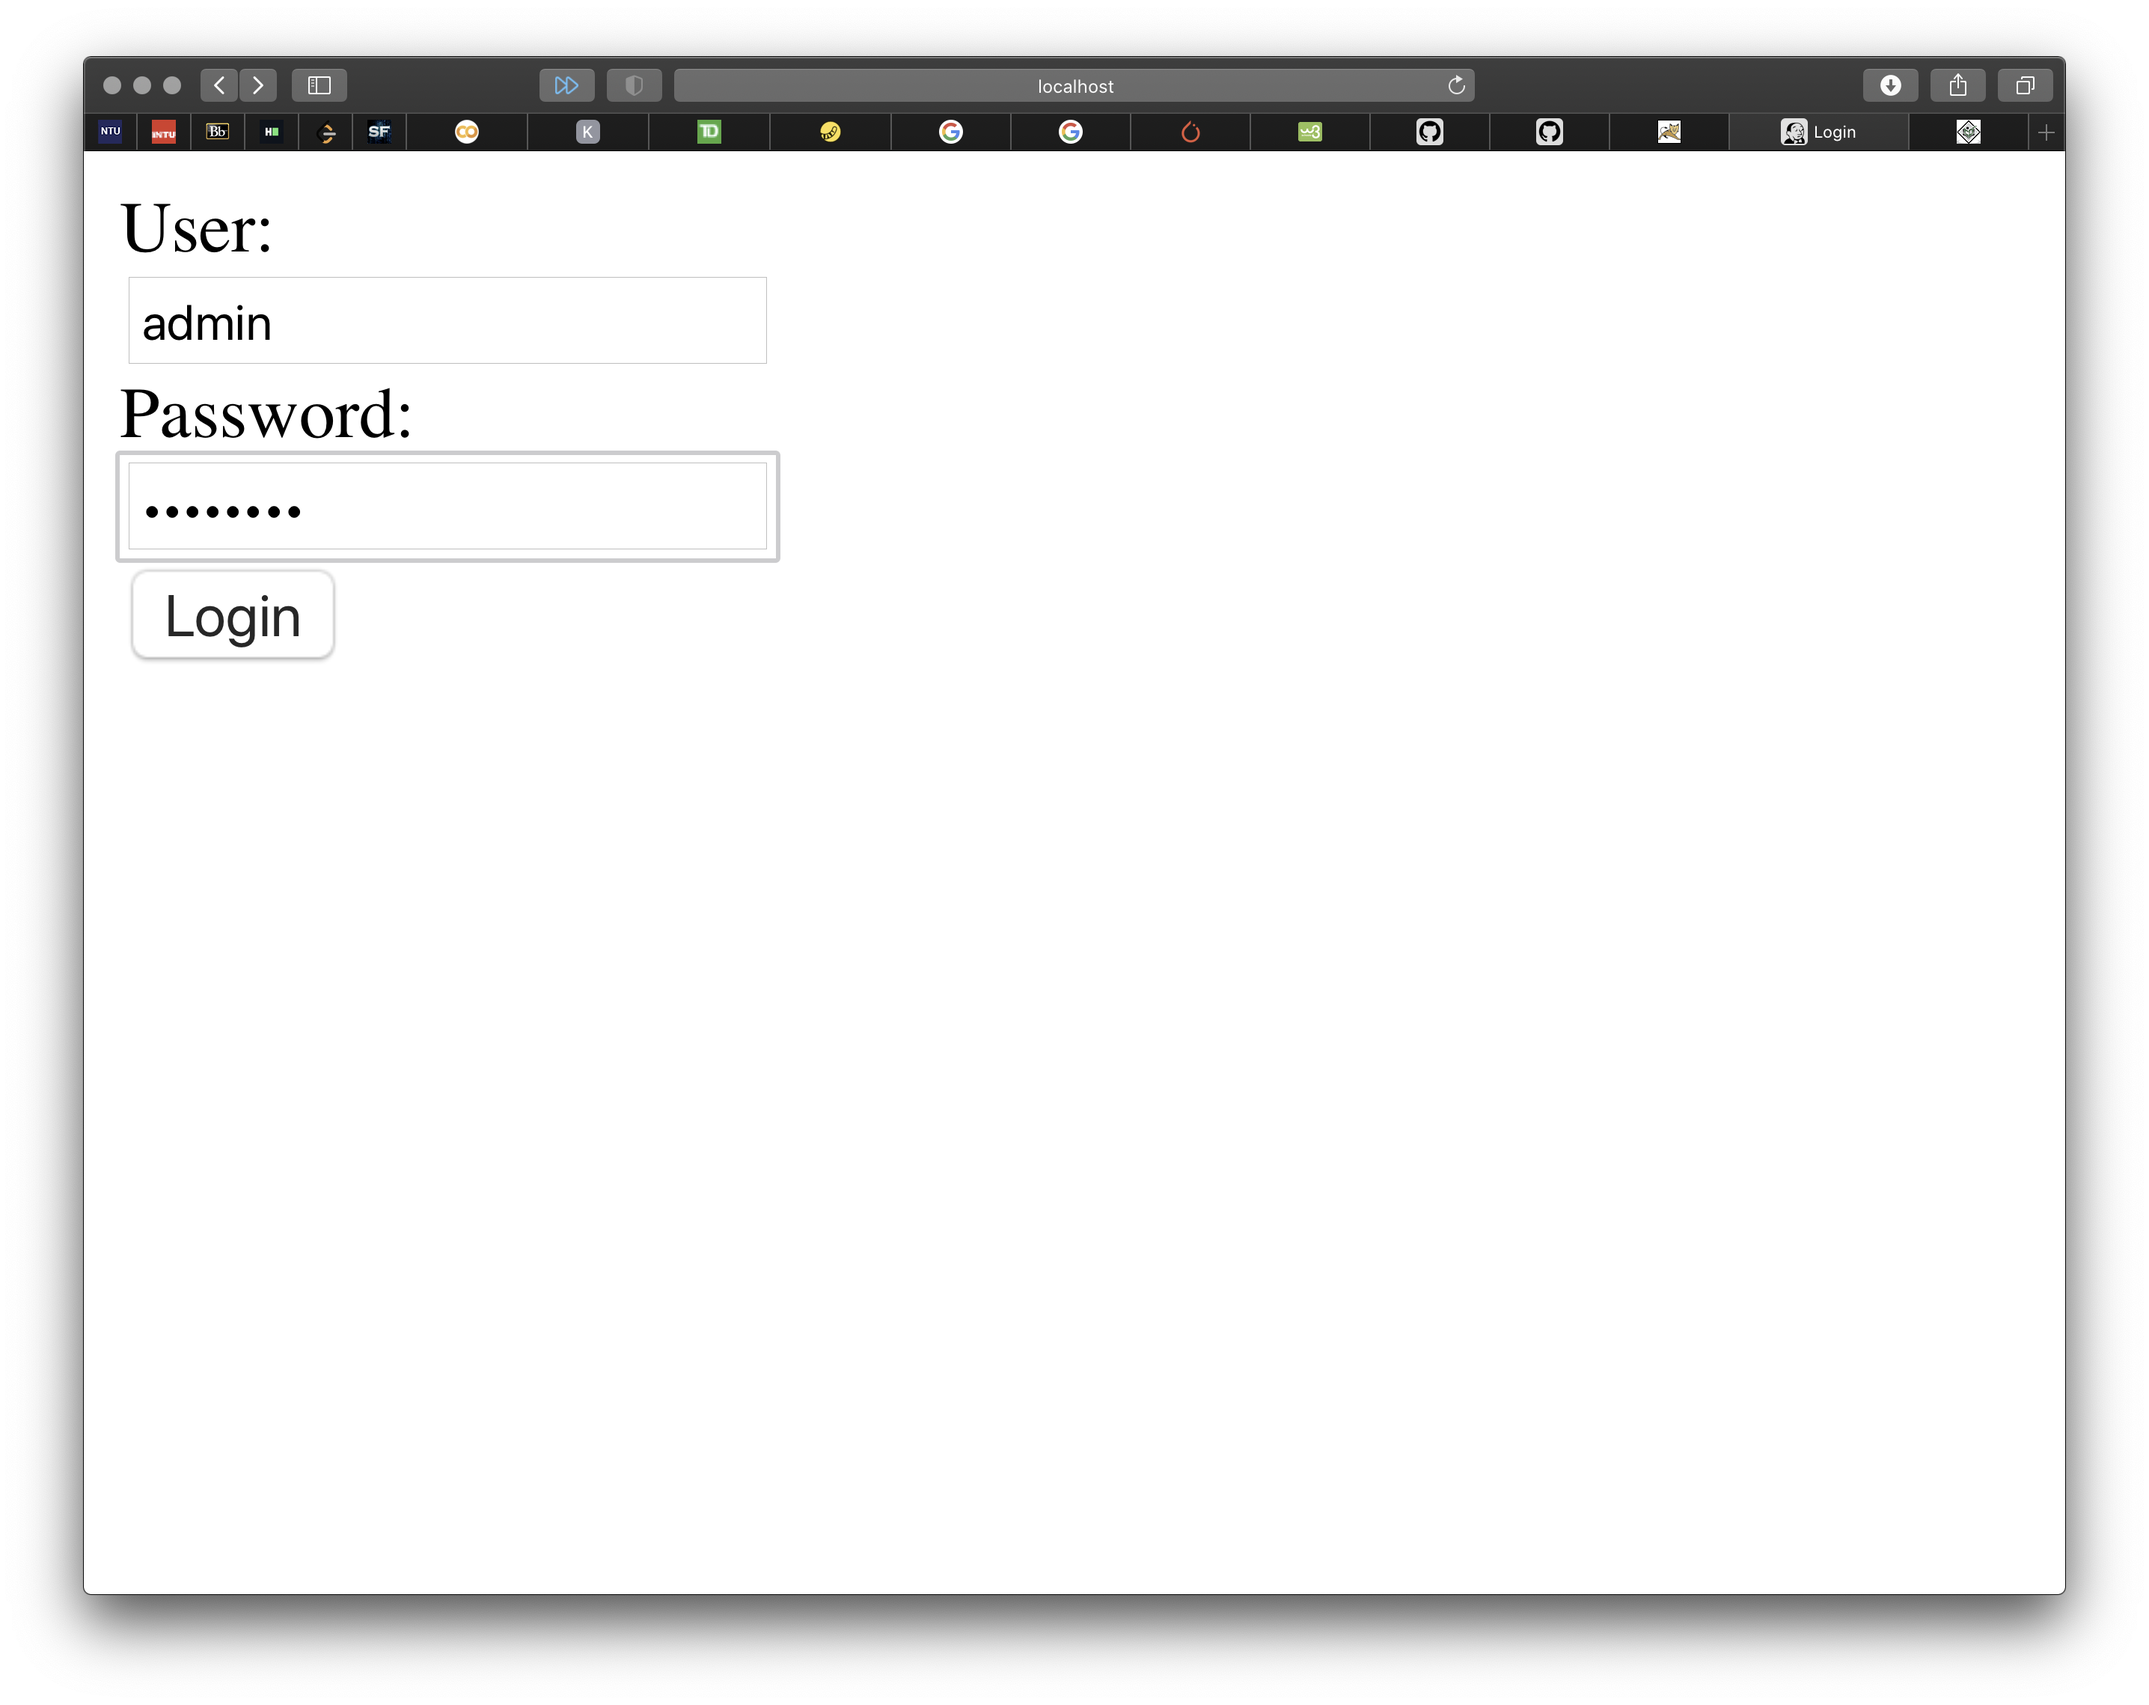
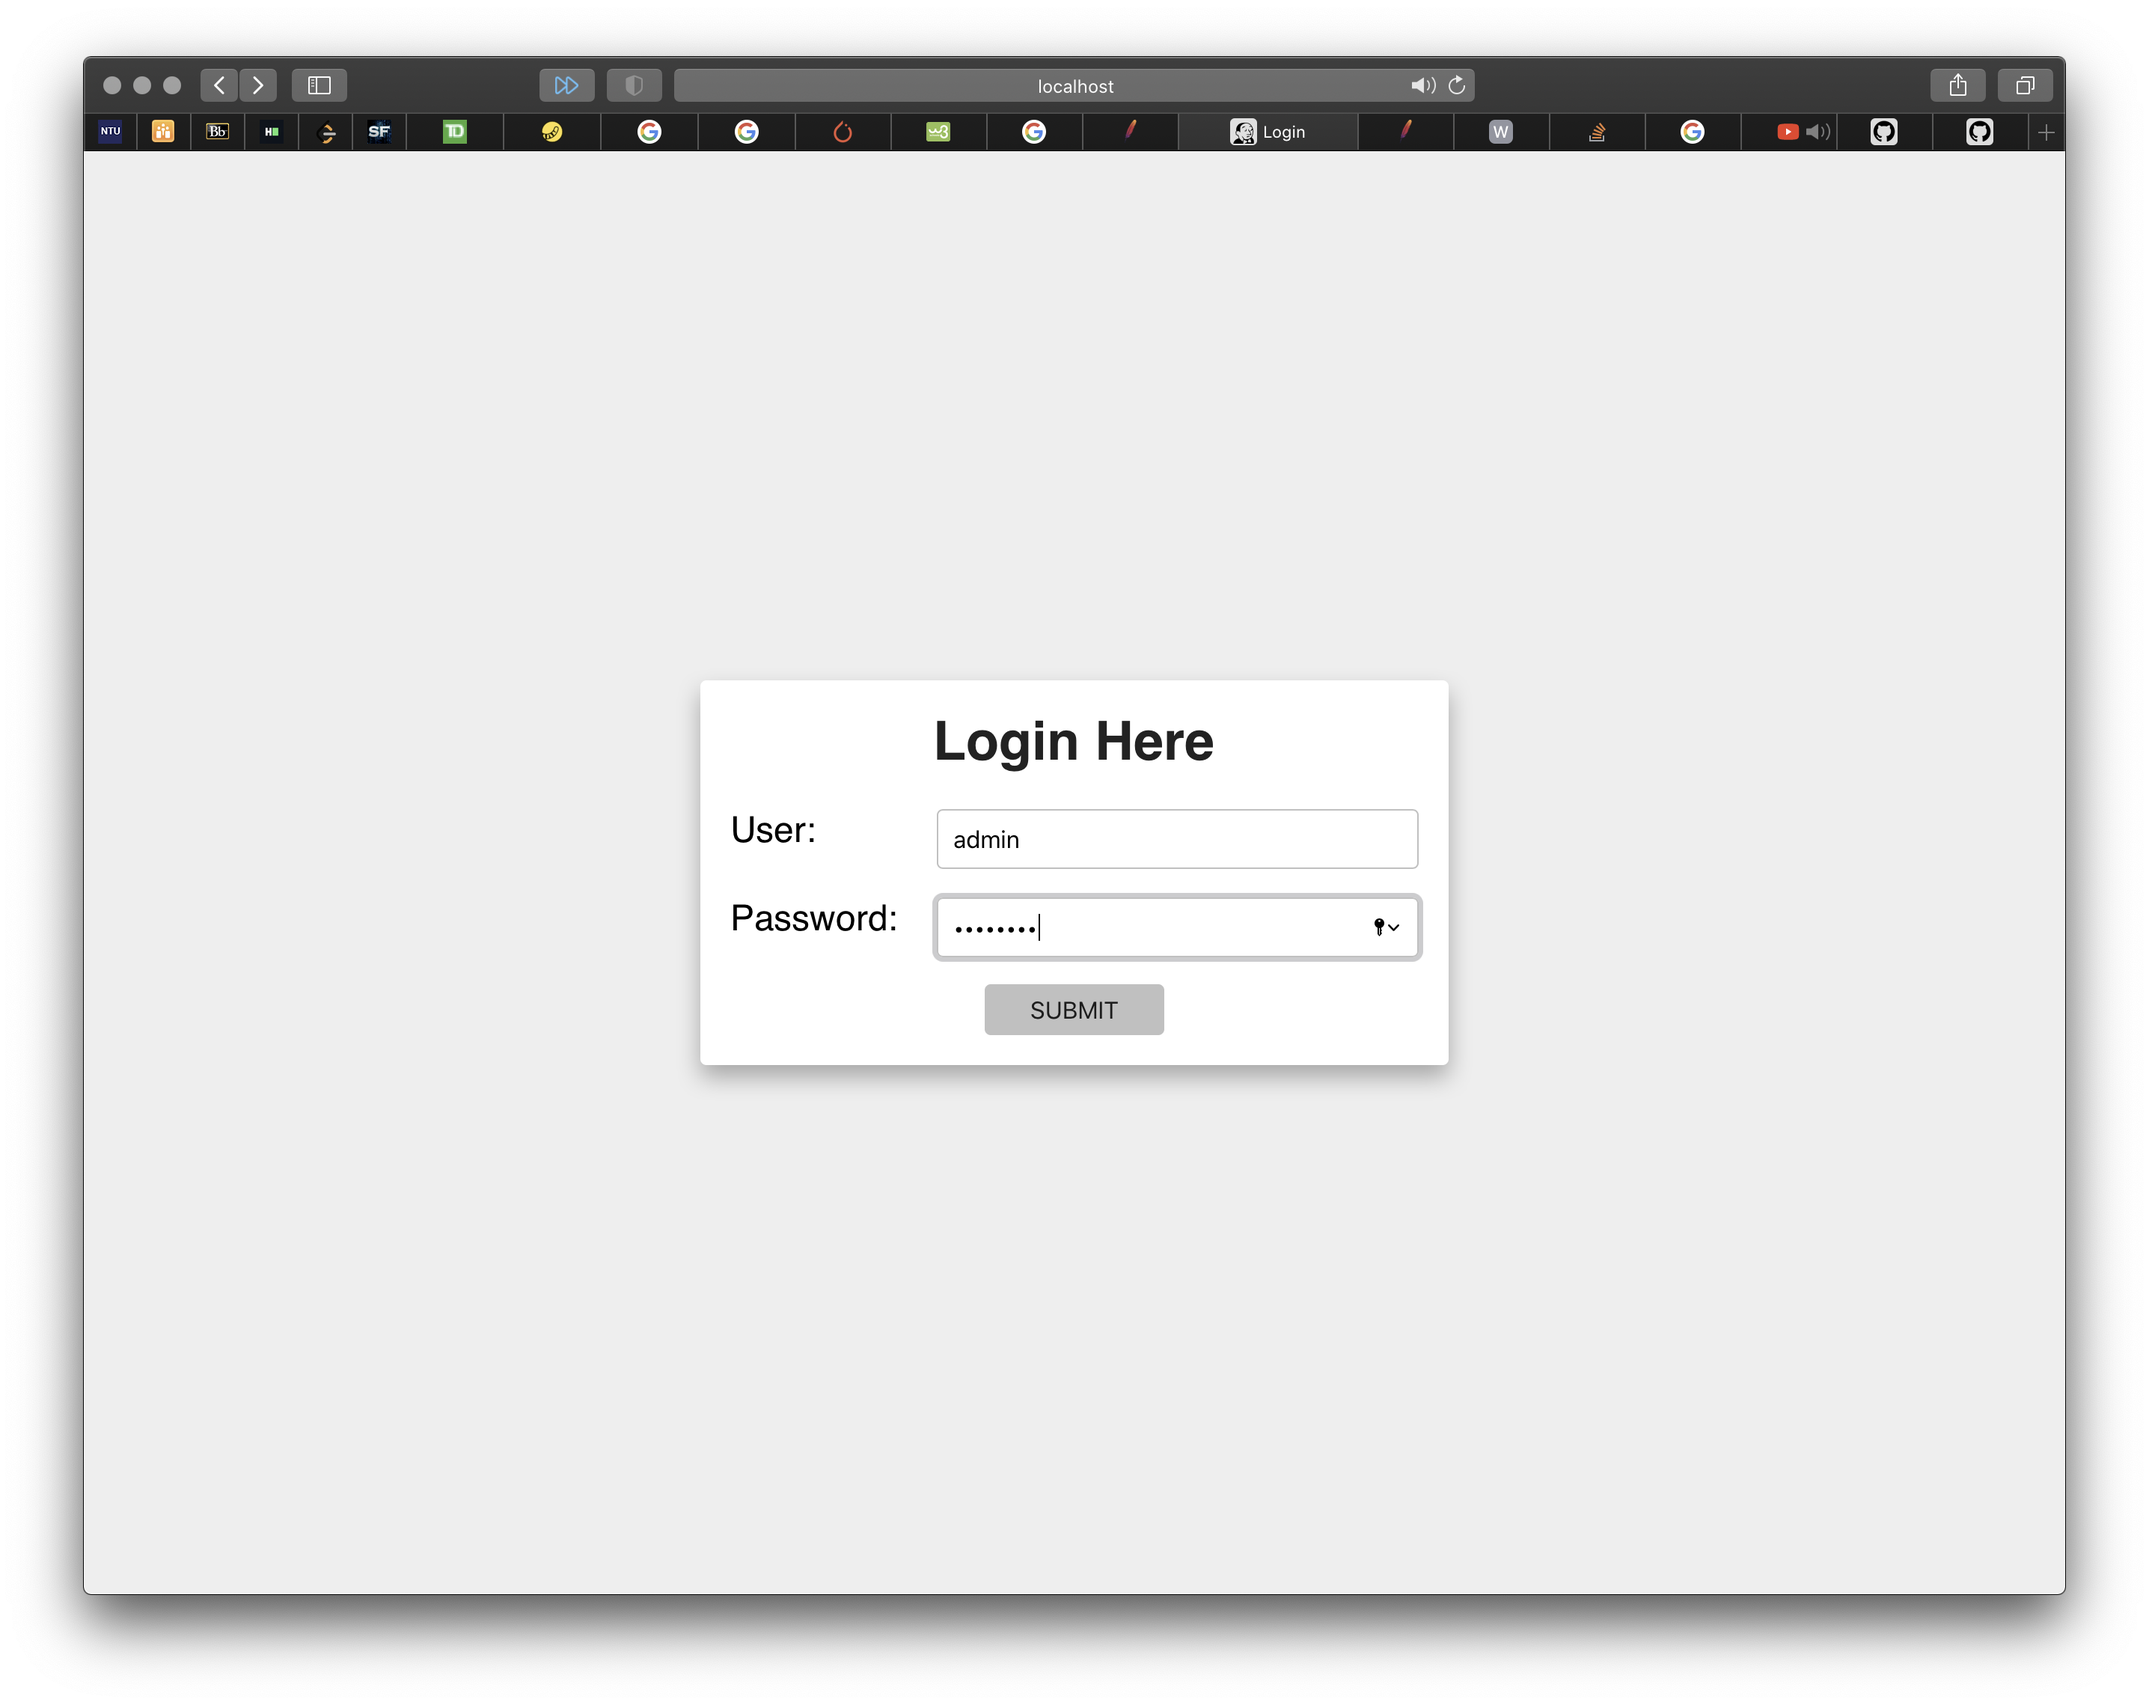
Model user as person (#6)
* Create Person.java

* add person creation

the person model object will avail to the view

* change Action var to model var

* Update success.jsp

* Update index.jsp

change form action to using struts 2 form

* update css for similar look

* change folder name

* change name for non-dir

* Delete MessageStore.java

unused

* update README

diff --git a/src/main/java/org/apache/struts/simplelogin/action/LoginAction.java b/src/main/java/org/apache/struts/simplelogin/action/LoginAction.java
@@ -1,5 +1,7 @@
 // package com.tutorialspoint.struts2;
-package org.apache.struts.helloworld.action;
+package org.apache.struts.simplelogin.action;
+
+import org.apache.struts.simplelogin.model.Person;
 
 import java.sql.Connection;
 import java.sql.DriverManager;
@@ -11,15 +13,18 @@ import com.opensymphony.xwork2.ActionSupport;
 
 public class LoginAction extends ActionSupport {
 
+    private Person personBean;
+
    private String user;
    private String password;
    private String name;
 
    private String USERNAME = "root";
    private String PASSWORD = "Ase123456";
-   private String mainURL = "jdbc:mysql://localhost/?useSSL=false";
+   private String mainURL = "jdbc:mysql://localhost/?useSSL=false&allowPublicKeyRetrieval=true";
 
    public String execute() {
+       personBean = new Person();
       String ret = ERROR;
       Connection conn = null;
 
@@ -39,6 +44,7 @@ public class LoginAction extends ActionSupport {
 
          while (rs.next()) {
             name = rs.getString(1);
+            personBean.setName(name);
             ret = SUCCESS;
          }
       } catch (Exception e) {
@@ -126,5 +132,12 @@ public class LoginAction extends ActionSupport {
 
    public void setName(String name) {
       this.name = name;
+   }
+
+   public Person getPersonBean() {
+       return personBean;
+   }
+   public void setPersonBean(Person person) {
+       personBean = person;
    }
 }

diff --git a/src/main/java/org/apache/struts/simplelogin/model/Person.java b/src/main/java/org/apache/struts/simplelogin/model/Person.java
@@ -1,0 +1,21 @@
+package org.apache.struts.simplelogin.model;
+
+/**
+ * Models a user that exist in the local MySql database
+ * @author Group 66
+ */
+public class Person {
+    private String name;
+
+    public void setName(String name) {
+        this.name = name;
+    }
+
+    public String getName() {
+        return name;
+    }
+
+    // public String toString() {
+    //     return "Name: " + getName();
+    // }
+}

diff --git a/README.md b/README.md
@@ -4,9 +4,10 @@ Making a web application with Struts.
 
 ## TODO
 
-- Rename helloworld directories to suitable name
-- Shift success and error jsp files into model instead
-- CSS for login, success and error pages
+- ~~Rename helloworld directories to suitable name~~
+- ~~Shift success and error jsp files into model instead~~
+- ~~CSS for login, success and error pages~~
+- Login verification
 - .war file for Servlet container in Tomcat (required?)
 
 ## Run locally
